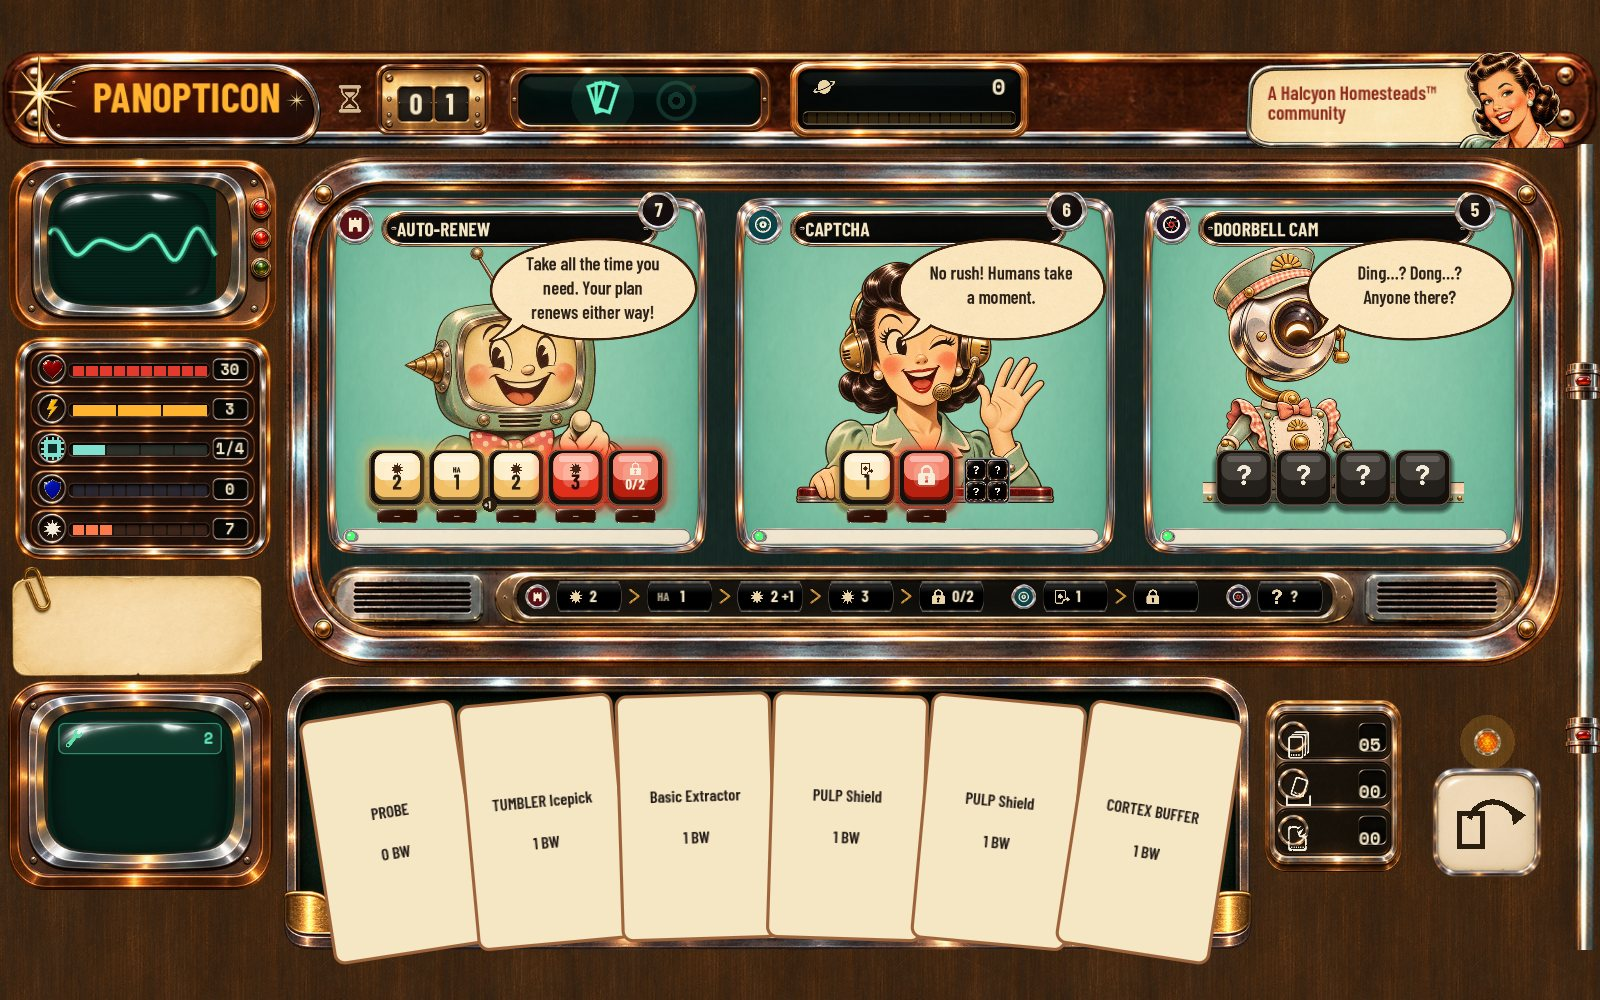
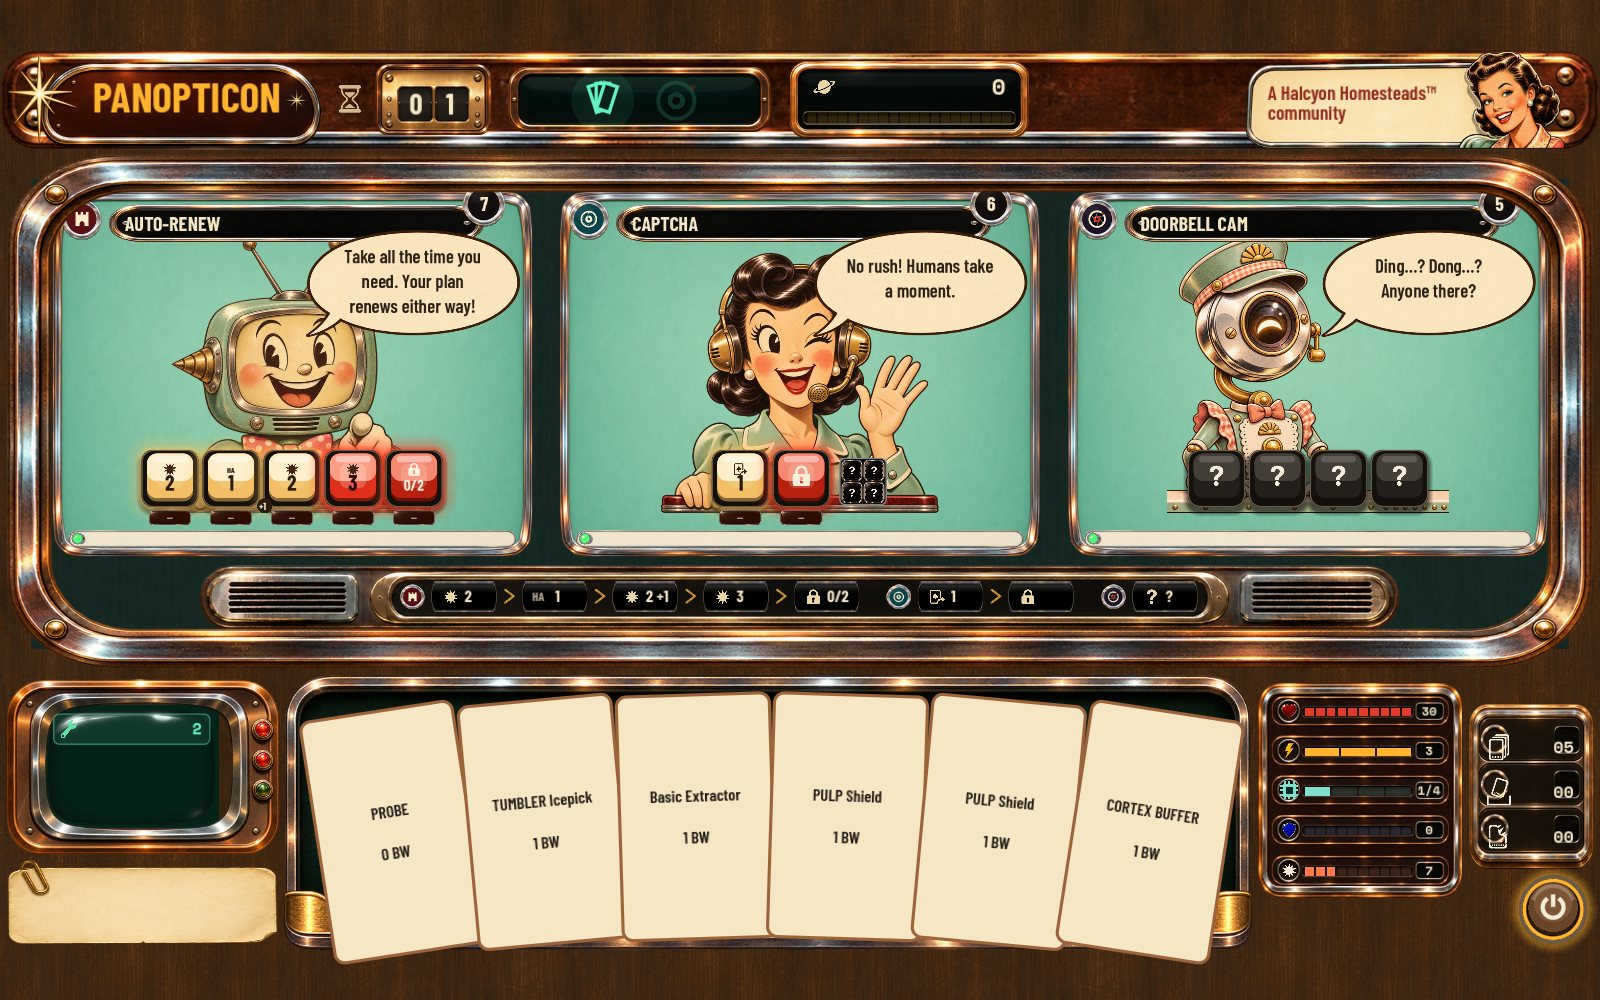
ARCH-V2-003s/t: full-width encounter layout, power END TURN, ADP-2b speech
Designer 2026-11-26 15:34/15:37. ICE enclosure spans the screen (wider
panels); CRT with the rig and the effects note lower left; meters right
of the hand; second CRT and side pipe removed; END TURN is a small round
brown power button in the bottom-right corner. HesitationVoice
implements ADP-2b (4 s hover, highest mood, 20 s cooldown, once per
turn, not while dragging) with approved copy. No rules changes.

Tests: import 0; test_game 176/0; test_adp 17/0; test_signal_carbon
672/0; test_arch_v2_ice 154/0; shot_arch_v2_ice 21 captures.

Claude-Session: https://claude.ai/code/session_019hKEHvB1ZMhQfwWSHJFSoY

diff --git a/docs/HANDOFF.md b/docs/HANDOFF.md
@@ -44,6 +44,7 @@ This is the one list of work that has been **decided but not finished**, so Code
 | Runtime inventory of CAS-001 C01–C18 and Batch 1 proposal (OPS-001 authorization 2026-11-26) | Claude Code | **DONE**: [report](operations/reports/2026-11-26-Claude-Code.md); baseline re-verified on `architecture-v2` (import 0; 176/0, SIM=1 176/0; 17/0; 672/0); VAS-001 SHA-256 recorded; N2A CAPTCHA proposed; Batch 1 and D1–D3 settled by the designer as ARCH-V2-003 (2026-11-26) |
 | ARCH-V2-003 Batch 1: ICE encounter components (C02, C04, C07–C09, C18), shared rail, event flyout, playable N2A sandbox | Claude Code | **BUILT** (approved in principle): `0ae151b` record, `1e07d20` components, `8017aad` tests/CI; `test_arch_v2_ice.gd` 124/0, baseline unchanged; 19 captures, evidence in `docs/visual/fixtures/arch-v2-batch1/`; [#21](https://github.com/Punkwork/REDLINE/issues/21), [#24](https://github.com/Punkwork/REDLINE/issues/24). Geometry, drawn icons and flyout treatment PROVISIONAL until the visual reference is agreed with ChatGPT and Codex. Badge hover wording settled by the designer (ARCH-V2-003j: type only; `ICE STRENGTH: n`). *Interpretations to confirm:* amber ring for the firing key; fired rail steps dim; panels centred vertically at three ICE; Codex art drops in through `ice_panel_layout.tres` |
 | VAS-ASSET-001: painted asset spec for the VAS-001 screen (ChatGPT prompts, sizes, nine-slice margins, engine/existing-art tracks) | Claude Code → designer (ChatGPT) | **PROPOSED**: [`architecture-v2/VAS-001_ASSET_SPEC.md`](architecture-v2/VAS-001_ASSET_SPEC.md). Designer runs the three ChatGPT conversations (§6); Claude Code wires delivered PNGs. LAYER/EXTRACT header content still open |
+| ARCH-V2-003s/t: full-width ICE enclosure; CRT (rig) + effects note lower left; meters right of the hand; END TURN a small brown power button bottom right; ADP-2b hesitation speech | Claude Code | **BUILT, PROPOSED for visual review**: captures `docs/visual/fixtures/arch-v2-composition/`. *Interpretations to confirm:* the rig chips moved to the remaining CRT (the phosphor trace is dropped); END TURN drawn as a power button rather than a C64 return key; hesitation bubble 2 s; the side pipe removed |
 | ARCH-V2-003r: encounter focus on avatars, subroutines, hand: large frameless avatars (≥ half the field), thin bezel, keys float over the avatar's foot, momentary speech bubbles, raised lit-from-within keys | Claude Code | **BUILT, PROPOSED for visual review**: captures `docs/visual/fixtures/arch-v2-composition/` (`v2_02*`, `v2_10*`, `v2_keys_zoom_2x.jpg`). *Interpretations to confirm:* bubble shows 1.6 s then fades 0.2 s (no fade under reduced motion); key state colours (cream-amber ready, red DEADLOCK, bright red hit, amber tumbled, dim amber booting, unlit broken, smoked hidden); the separate key lamp is dropped (the cap's light is the state); keys centred over the avatar's foot; three-ICE avatar centred with the name across the top |
 | ARCH-V2-003o/p: fanned hand; three-ICE panel with large revised avatars; speech-bubble zone on every panel | Claude Code | **BUILT, PROPOSED for visual review**: captures `docs/visual/fixtures/arch-v2-composition/` (`v2_02*`, `v2_10*`). *Interpretations to confirm:* fan tilt 3.5°/card (max 10°), 12 px overlap, 14 px arc, 26 px lift; bubble stays empty in play until its trigger is decided (fixtures show approved ADP mood lines); two-ICE portrait kept at its size so five keys stay ≥ 44 px. Missing avatar moods: TERMS_OF_SERVICE wary, HOUSE_CALL cheery and wary |
 | ARCH-V2-003 composition pass: encounter composed to VAS-001 with the painted parts; icon-first instruments; END TURN key (ARCH-V2-003m) | Claude Code | **BUILT, PROPOSED for visual review**: captures `docs/visual/fixtures/arch-v2-composition/`; `test_arch_v2_ice.gd` 127/0, baseline unchanged. *Interpretations to confirm:* phase plaque icons (fanned hand = Rustler, lens = Corporation); RAM chip glyph; hourglass beside the turn counter; small CRT shows a quiet phosphor trace (content open); effects card stamps CORTEX and next-turn BW drain only; HOSTILE REVEAL, LAYER and EXTRACT left out (content open); ad plate uses the approved HALCYON programme line; three ICE use a compact panel (narrow portrait) to keep keys ≥ 44 px |

diff --git a/docs/REDLINE_MASTER_DESIGN.md b/docs/REDLINE_MASTER_DESIGN.md
@@ -3333,5 +3333,7 @@ ChatGPT's independent check of `main` references covered the principal governanc
   - **Speech bubbles are momentary** ("the comic text bubbles are momentary speech and should cover everything else under it for a moment (1-2 seconds)"): no layout room; the bubble overlays the panel for 1.6 s (working value) then goes.
   - **Subroutine keys may overlay the avatar's lower edge**, separated by a drop shadow ("As long as there is a drop shadow or some layer differentiation … it should be fine"). Six subroutines must not look awkward with three ICE (tested: six keys ≥ 44 px inside the panel).
   - **Keys are thick raised panel buttons lit from within, with a slight glow** ("thick raised buttons that light up on old panels … Even a slight glow around each subroutine button … makes a lot of difference"). Built as a drawn renderer (`lit_key.gd`); the cap's light carries the state (cream-amber ready, red DEADLOCK, bright red hit, amber tumbled/booting, unlit broken, smoked glass hidden). PROPOSED; the designer offered reference images if needed.
+- **(s) Screen layout change (designer, 2026-11-26 15:34 and 15:37):** "stretch the main window [with] all 3 avatars across the entire screen, pushing the TOP LEFT CRT … down, the 5 icons to be moved to the right of the hand of cards, the paperclip and paper just below the crt now in the bottom left corner, eliminate the second crt … get rid of that funny looking end of turn button … It can look like something that slightly resembles a power on / off button. Circular with a notch in it. or … a return carriage button like on the commodore 64, and just as brown"; then "Move that end turn button to the very bottom right corner of the UI". Built: the ICE enclosure spans the full width (panels widened to 700 × 352, three ICE 720 × 550); the CRT is lower left and holds the rig chips (the second CRT is gone, so its job moved here; the phosphor trace from (q) is dropped with it); the effects note sits below it; the five meters are right of the hand, then deck/discard/burned; END TURN is a small round C64-brown power button (circle-with-notch symbol, amber lamp ring when the turn can end) in the bottom-right corner. The side pipe is removed.
+- **(t) ICE speech follows ADP-2b (designer, 2026-11-26 15:37, pointing to the UI Design Bible Phase 2 and Copy Pack §2):** hovering one card for 4 s makes the ICE with the highest mood say an approved hesitation line; 20 s cooldown; at most once per turn; disabled while dragging; flavour only. Built as `HesitationVoice` (ported from Build 12); the bubble shows 2 s (working value inside the designer's 1–2 s). Mechanical ICE responses stay per Core Loop §1.
 
 **Status:** Batch 1 **APPROVED IN PRINCIPLE**. Implemented as reversible technical foundations (see HANDOFF and the development log for commits). Component geometry, the drawn type/STR icons and the flyout treatment are **PROVISIONAL** and held in replaceable resources (`godot/themes/architecture_v2/ice_panel_layout.tres`, `VasTokens`) until the visual reference is agreed. No gameplay, rules or project-setting change.

diff --git a/docs/REDLINE_DEVELOPMENT_LOG.md b/docs/REDLINE_DEVELOPMENT_LOG.md
@@ -400,3 +400,7 @@ Designer answers to the composition-pass questions recorded as ARCH-V2-003q. Des
 
 Designer: avatars as large as VAS-001 (at least half the field), bubbles momentary (1–2 s, covering what is under them), keys may overlay the avatar's foot with a drop shadow, six subroutines must work at three ICE, keys should be thick raised panel buttons lit from within with a slight glow. Built: `IcePanelLayout` reworked (frameless avatar 304 px of 586 at two ICE, 400 px centred at three ICE; thin nine-sliced bezel; keys float over the avatar's foot, no bed; status strip under the keys); `IcePanel.say(text, seconds)` shows the bubble on top for 1.6 s; new `LitKey` (extends Build 12's `IceKey`, which stays unchanged for `main`) draws socket, glow, cap side, lit face, specular band, drop shadow; the inspector uses it too. New checks: avatar ≥ half the window and above the keys; six keys ≥ 44 px inside a three-ICE panel. Tests: import 0; `test_game.gd` 176/0; `test_adp.gd` 17/0; `test_signal_carbon.gd` 672/0; `test_arch_v2_ice.gd` 144/0; 21 captures.
 
+## 2026-11-26 — ARCH-V2-003s/t: full-width encounter layout, power-button END TURN, ADP-2b speech (Claude Code)
+
+Designer layout change: the ICE enclosure spans the screen (panels 700 × 352; three ICE 720 × 550), CRT with the rig and the effects note lower left, meters right of the hand, second CRT and side pipe removed, END TURN a small round brown power button in the bottom-right corner. Speech: `HesitationVoice` implements ADP-2b (4 s hover, highest mood, 20 s cooldown, once per turn, not while dragging) with the approved Copy Pack lines; 10 new checks. Tests: import 0; `test_game.gd` 176/0; `test_adp.gd` 17/0; `test_signal_carbon.gd` 672/0; `test_arch_v2_ice.gd` 154/0; 21 captures.
+
